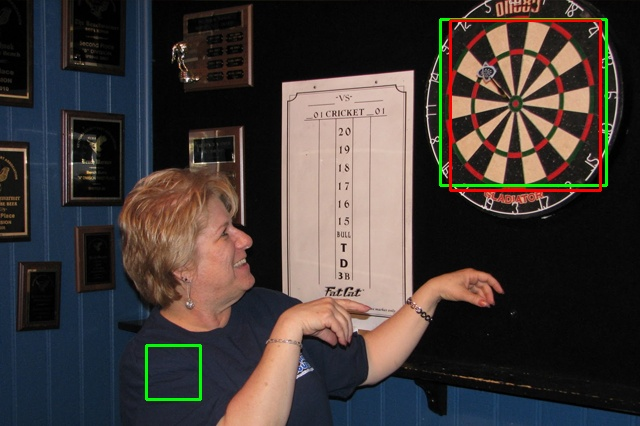
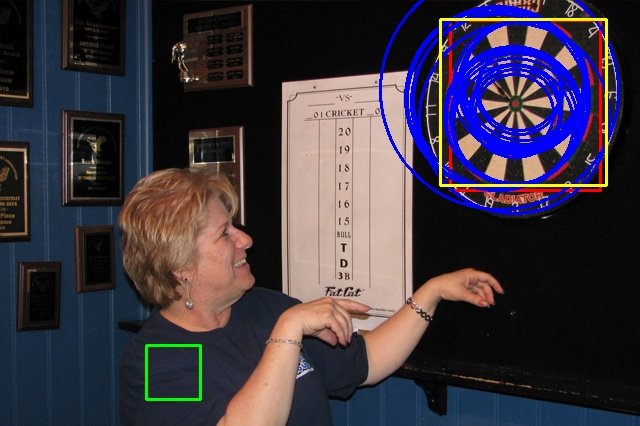
finish subtask2

Changed region(s): [[0.5625, 0.0, 0.9688, 0.5188], [0.625, 0.0, 0.6562, 0.061]]

diff --git a/DartboardDetector.py b/DartboardDetector.py
@@ -1,5 +1,135 @@
 import cv2
 import os
+import numpy as np
+
+# The following part is using Lab3 code that i have implemented, to achieve hough transform
+# Sobel's kernels
+# for derivative in the x direction
+derivativeInX = np.array([
+    [-1, 0, 1],
+    [-2, 0, 2],
+    [-1, 0, 1]
+])
+
+# for derivative in the y direction
+derivativeInY = np.array([
+    [-1, -2, -1],
+    [0, 0, 0],
+    [1, 2, 1]
+])
+
+
+def convolutionx(image, derivativeInX):
+    i_height, i_width = image.shape
+    k_height, k_width = derivativeInX.shape
+
+    # Calculate half sizes for kernels with even dimensions
+    pad_height = k_height // 2
+    pad_width = k_width // 2
+
+    # Pad the image with zeros around the borders
+    padded_image = cv2.copyMakeBorder(image, pad_height, pad_height, pad_width, pad_width, cv2.BORDER_REPLICATE)
+
+    output = np.zeros_like(image, dtype=float)
+
+    for y in range(i_height):
+        for x in range(i_width):
+            convolution_sum = (derivativeInX * padded_image[y:y+k_height, x:x+k_width]).sum()
+            # output[y, x] = min(max(convolution_sum, 0), 255)
+            output[y, x] = convolution_sum
+
+    return output
+
+
+def convolutiony(image, derivativeInY):
+    i_height, i_width = image.shape
+    k_height, k_width = derivativeInY.shape
+
+    # Calculate half sizes for kernels with even dimensions
+    pad_height = k_height // 2
+    pad_width = k_width // 2
+
+    # Pad the image with zeros around the borders
+    padded_image = cv2.copyMakeBorder(image, pad_height, pad_height, pad_width, pad_width, cv2.BORDER_REPLICATE)
+
+    output = np.zeros_like(image, dtype=float)
+
+    for y in range(i_height):
+        for x in range(i_width):
+            convolution_sum = (derivativeInY * padded_image[y:y+k_height, x:x+k_width]).sum()
+            # output[y, x] = min(max(convolution_sum, 0), 255)
+            output[y, x] = convolution_sum
+
+    return output
+
+
+# gradient magnitude
+def gradient_magnitude(dx, dy):
+    return np.sqrt(dx**2 + dy**2)
+
+
+# gradients direction
+def gradient_direction(dx, dy):
+    return np.arctan2(dy, dx)
+
+
+def threshold_image(image, threshold):
+    # Normalize the image to the range [0, 255]
+    norm_image = ((image - np.min(image)) / (np.max(image) - np.min(image)) * 255).astype(np.uint8)
+
+    _, binary_image = cv2.threshold(norm_image, threshold, 255, cv2.THRESH_BINARY)
+    return binary_image
+
+
+def hough(binary_image, gradient_direction, min_radius, max_radius, threshold):
+    # Initialize the Hough space
+    rows, cols = binary_image.shape
+    hough_space = np.zeros((rows, cols, max_radius - min_radius))
+
+    edge_pixels = np.argwhere(binary_image)
+    for y, x in edge_pixels:
+        for r in range(min_radius, max_radius):
+            # For positive gradient direction
+            x0_pos = int(x - r * np.cos(gradient_direction[y, x]))
+            y0_pos = int(y - r * np.sin(gradient_direction[y, x]))
+
+            # For negative gradient direction
+            x0_neg = int(x + r * np.cos(gradient_direction[y, x]))
+            y0_neg = int(y + r * np.sin(gradient_direction[y, x]))
+
+            # Accumulate votes in Hough space for positive direction
+            if (0 <= x0_pos < cols) and (0 <= y0_pos < rows):
+                hough_space[y0_pos, x0_pos, r - min_radius] += 1
+
+            # Accumulate votes in Hough space for negative direction
+            if (0 <= x0_neg < cols) and (0 <= y0_neg < rows):
+                hough_space[y0_neg, x0_neg, r - min_radius] += 1
+
+    return hough_space
+
+
+def hough_transform_circle(image, derivativeInX, derivativeInY, threshold, min_radius, max_radius):
+    # Perform Sobel edge detection
+    convolvedx_image = convolutionx(image, derivativeInX)
+    convolvedy_image = convolutiony(image, derivativeInY)
+
+    magnitude_image = gradient_magnitude(convolvedx_image, convolvedy_image)
+    direction_image = gradient_direction(convolvedx_image, convolvedy_image)
+
+    # Thresholding the magnitude image
+    binary_image = threshold_image(magnitude_image, threshold)
+
+    # Perform Hough Circle Transform using the binary image and direction image
+    hough_space = hough(binary_image, direction_image, min_radius, max_radius, threshold)
+
+    # Extract circle centers from Hough space
+    # Adjust the threshold here if needed
+    circle_centers = np.argwhere(hough_space > threshold)
+
+    # Convert the circle centers to the format (x, y, r)
+    circle_centers = [(y, x, r + min_radius) for y, x, r in circle_centers]
+
+    return circle_centers
 
 
 # read ground truth bounding boxes from file
@@ -66,25 +196,51 @@ def evaluate_detections(detections, ground_truth):
     return TPR, F1
 
 
-# perform detection and display the results
+# Combines evidence from Viola-Jones and Hough Transform detections
+def combine_evidence(vj_detections, hough_detections):
+    combined_detections = []
+    for (x, y, w, h) in vj_detections:
+        for (y0, x0, r) in hough_detections:
+            # Check if the Hough circle center is within the Viola-Jones detection
+            if x <= x0 < x + w and y <= y0 < y + h:
+                combined_detections.append((x, y, w, h))
+                break
+    return combined_detections
+
+
+# Perform detection and display the results
 def detect_and_display(image, ground_truth, model, image_name, output_path):
     # Convert to grayscale and normalize lighting
     gray_image = cv2.cvtColor(image, cv2.COLOR_BGR2GRAY)
     gray_image = cv2.equalizeHist(gray_image)
 
-    # Detect dartboards
-    dartboards = model.detectMultiScale(gray_image, scaleFactor=1.1, minNeighbors=5, minSize=(20, 20), maxSize=(230,230))
+    # Detect dartboards Dartboard Detection
+    dartboards_vj = model.detectMultiScale(gray_image, scaleFactor=1.1, minNeighbors=5, minSize=(20, 20), maxSize=(230,230))
 
-    # Draw rectangles around the detected dartboards (in blue)
-    for (x, y, w, h) in dartboards:
+    # Hough Circle Transform detection
+    circle_centers = hough_transform_circle(gray_image, derivativeInX, derivativeInY, 15, 10, 150)
+
+    # Combine evidence from both methods
+    combined_detections = combine_evidence(dartboards_vj, circle_centers)
+
+    # Draw rectangles around the detected dartboards (in green)
+    for (x, y, w, h) in dartboards_vj:
         cv2.rectangle(image, (x, y), (x+w, y+h), (0, 255, 0), 2)
 
     # Draw ground truth bounding boxes (in red)
     for (x, y, w, h) in ground_truth:
         cv2.rectangle(image, (x, y), (x+w, y+h), (0, 0, 255), 2)
 
+    # Draw circles for Hough detections (in Blue)
+    for (y0, x0, r) in circle_centers:
+        cv2.circle(image, (x0, y0), r, (255, 0, 0), 2)  # Blue
+
+    # Draw rectangles around combined detections (in Yellow)
+    for (x, y, w, h) in combined_detections:
+        cv2.rectangle(image, (x, y), (x+w, y+h), (0, 255, 255), 2)  # Yellow
+
     # Evaluate detections and get performance metrics
-    TPR, F1 = evaluate_detections(dartboards, ground_truth)
+    TPR, F1 = evaluate_detections(combined_detections, ground_truth)
 
     # Print the TPR and F1 score for the current image
     print(f'TPR: {TPR:.2f}, F1 Score: {F1:.2f}')
@@ -98,7 +254,7 @@ def detect_and_display(image, ground_truth, model, image_name, output_path):
     save_path = os.path.join(output_path, image_name)
     cv2.imwrite(save_path, image)
 
-    return evaluate_detections(dartboards, ground_truth)
+    return TPR, F1
 
 
 if __name__ == '__main__':

diff --git a/hough.py b/hough.py
@@ -1,0 +1,172 @@
+import cv2
+import numpy as np
+
+image = cv2.imread("Dartboard/dart0.jpg", cv2.IMREAD_GRAYSCALE)
+color_image = cv2.imread("Dartboard/dart0.jpg", cv2.IMREAD_COLOR)
+
+# Sobel's kernels
+# for derivative in the x direction
+derivativeInX = np.array([
+    [-1, 0, 1],
+    [-2, 0, 2],
+    [-1, 0, 1]
+])
+
+# for derivative in the y direction
+derivativeInY = np.array([
+    [-1, -2, -1],
+    [0, 0, 0],
+    [1, 2, 1]
+])
+
+
+def convolutionx(image, derivativeInX):
+    i_height, i_width = image.shape
+    k_height, k_width = derivativeInX.shape
+
+    # Calculate half sizes for kernels with even dimensions
+    pad_height = k_height // 2
+    pad_width = k_width // 2
+
+    # Pad the image with zeros around the borders
+    padded_image = cv2.copyMakeBorder(image, pad_height, pad_height, pad_width, pad_width, cv2.BORDER_REPLICATE)
+
+    output = np.zeros_like(image, dtype=float)
+
+    for y in range(i_height):
+        for x in range(i_width):
+            convolution_sum = (derivativeInX * padded_image[y:y+k_height, x:x+k_width]).sum()
+            # output[y, x] = min(max(convolution_sum, 0), 255)
+            output[y, x] = convolution_sum
+
+    return output
+
+
+def convolutiony(image, derivativeInY):
+    i_height, i_width = image.shape
+    k_height, k_width = derivativeInY.shape
+
+    # Calculate half sizes for kernels with even dimensions
+    pad_height = k_height // 2
+    pad_width = k_width // 2
+
+    # Pad the image with zeros around the borders
+    padded_image = cv2.copyMakeBorder(image, pad_height, pad_height, pad_width, pad_width, cv2.BORDER_REPLICATE)
+
+    output = np.zeros_like(image, dtype=float)
+
+    for y in range(i_height):
+        for x in range(i_width):
+            convolution_sum = (derivativeInY * padded_image[y:y+k_height, x:x+k_width]).sum()
+            # output[y, x] = min(max(convolution_sum, 0), 255)
+            output[y, x] = convolution_sum
+
+    return output
+
+
+# gradient magnitude
+def gradient_magnitude(dx, dy):
+    return np.sqrt(dx**2 + dy**2)
+
+
+# gradients direction
+def gradient_direction(dx, dy):
+    return np.arctan2(dy, dx)
+
+
+def threshold_image(image, threshold):
+    # Normalize the image to the range [0, 255]
+    norm_image = ((image - np.min(image)) / (np.max(image) - np.min(image)) * 255).astype(np.uint8)
+
+    _, binary_image = cv2.threshold(norm_image, threshold, 255, cv2.THRESH_BINARY)
+    return binary_image
+
+
+def hough(binary_image, gradient_direction, min_radius, max_radius, threshold):
+    # Initialize the Hough space
+    rows, cols = binary_image.shape
+    hough_space = np.zeros((rows, cols, max_radius - min_radius))
+
+    edge_pixels = np.argwhere(binary_image)
+    for y, x in edge_pixels:
+        for r in range(min_radius, max_radius):
+            # For positive gradient direction
+            x0_pos = int(x - r * np.cos(gradient_direction[y, x]))
+            y0_pos = int(y - r * np.sin(gradient_direction[y, x]))
+
+            # For negative gradient direction
+            x0_neg = int(x + r * np.cos(gradient_direction[y, x]))
+            y0_neg = int(y + r * np.sin(gradient_direction[y, x]))
+
+            # Accumulate votes in Hough space for positive direction
+            if (0 <= x0_pos < cols) and (0 <= y0_pos < rows):
+                hough_space[y0_pos, x0_pos, r - min_radius] += 1
+
+            # Accumulate votes in Hough space for negative direction
+            if (0 <= x0_neg < cols) and (0 <= y0_neg < rows):
+                hough_space[y0_neg, x0_neg, r - min_radius] += 1
+
+    return hough_space
+
+
+def display_hough_space(hough_space):
+    hough_2d = np.sum(hough_space, axis=2)
+    hough_2d = (255 * (hough_2d / np.max(hough_2d))).astype(np.uint8)  # Normalization to [0, 255]
+    hough_display = cv2.applyColorMap(hough_2d, cv2.COLORMAP_JET)  # Using a colormap for better visualization
+    cv2.imshow('Hough Space', hough_display)
+
+def draw_circles(image, circle_centers, min_radius):
+    output = image.copy()
+    for y, x, r in circle_centers:
+        cv2.circle(output, (x, y), r + min_radius, (0, 0, 255), 2)  # (0, 0, 255) represents red in BGR format
+    cv2.imshow('Detected Circles', output)
+
+
+def visualize_circle_centers(circle_centers):
+    output = np.zeros_like(color_image)
+    for y, x, r in circle_centers:
+        cv2.circle(output, (x, y), 3, (0, 255, 0), -1)  # Drawing small green circles at each circle center
+    return output
+
+
+convolvedx_image = convolutionx(image, derivativeInX)
+convolvedy_image = convolutiony(image, derivativeInY)
+
+magnitude_image = gradient_magnitude(convolvedx_image, convolvedy_image)
+direction_image = gradient_direction(convolvedx_image, convolvedy_image)
+
+
+cv2.imshow('image', image)
+cv2.imshow('convolvedx_image', convolvedx_image)
+cv2.imshow('convolvedy_image', convolvedy_image)
+# cv2.imshow('Magnitude', magnitude_image)
+
+min_val, max_val = np.min(magnitude_image), np.max(magnitude_image)
+normalized_magnitude = ((magnitude_image - min_val) / (max_val - min_val) * 255).astype(np.uint8)
+cv2.imshow('Magnitude Image', normalized_magnitude)
+
+min_val, max_val = np.min(direction_image), np.max(direction_image)
+normalized_direction = ((direction_image - min_val) / (max_val - min_val) * 255).astype(np.uint8)
+cv2.imshow('direction Image', normalized_direction)
+
+# Thresholding
+T = 50
+binary_image = threshold_image(magnitude_image, T)
+
+# Hough Transform
+min_radius = 10
+max_radius = 150
+hough_threshold = 15
+hough_space = hough(binary_image, direction_image, min_radius, max_radius, hough_threshold)
+# Extract circle centers
+circle_centers = np.argwhere(hough_space > hough_threshold)
+print(circle_centers[:5])  # Print first 5 detected circle centers and radii
+
+circle_centers_image = visualize_circle_centers(circle_centers)
+cv2.imshow('Circle Centers', circle_centers_image)
+# Display results
+display_hough_space(hough_space)
+draw_circles(color_image, circle_centers, min_radius)
+
+cv2.waitKey(0)
+cv2.destroyAllWindows()
